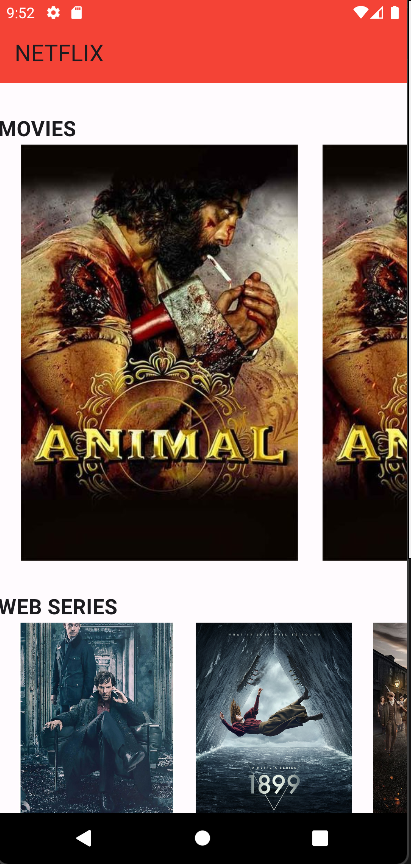
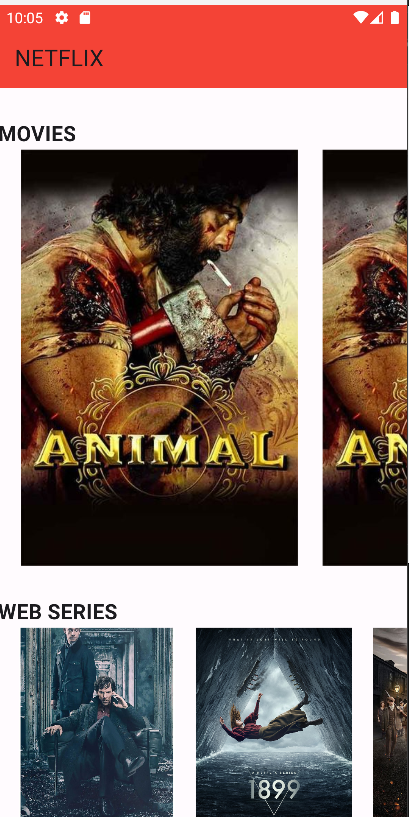
netflix_homepage

diff --git a/netflix_homepage/lib/assignment10.dart b/netflix_homepage/lib/assignment10.dart
@@ -113,32 +113,29 @@ class Assignment10 extends StatelessWidget {
                     width: 20,
                   ),
                   Image.network(
-                    "https://assetscdn1.paytm.com/images/catalog/product/H/HO/HOMSHERLOCK-HOLHK-P63024784A1CC1B/1563111214645_0..jpg",
-                    height: 200,
+                    "https://encrypted-tbn0.gstatic.com/images?q=tbn:ANd9GcR0kR0gMemRl9ylPTzmmuQQVb10vo8n7kXL7BeHkeo_4lmJS56C8-WKIy_GYK12wnEmPlc",
+                    height: 190,
                     width: 150,
-                    fit: BoxFit.cover,
                   ),
                   const SizedBox(
-                    width: 20,
+                    width: 10,
                   ),
                   Image.network(
-                    "https://dnm.nflximg.net/api/v6/2DuQlx0fM4wd1nzqm5BFBi6ILa8/AAAAQeIeKt7LlqIJPKrT4aQijclj7K43xRSU3dQXNESNdNbnnJbT6LLWVRT9srUUbHbOo-iOH-8v3o16pUDMQ6tCgNGlkvfwvDOprROIZpQ2rgHtop9rHvbYlvzavMmUSGBCXjynJ80dn4nqZzZmzIUJMQpS.jpg?r=943",
+                    "https://encrypted-tbn0.gstatic.com/images?q=tbn:ANd9GcRZ5Cq8kozpWIaq5Aohw4rjKkh_eE7nUkDV5zcHClQaYw&s",
                     height: 200,
                     width: 150,
-                    fit: BoxFit.cover,
-                  ),
-                  const SizedBox(
-                    width: 20,
                   ),
                   Image.network(
-                    "https://www.tallengestore.com/cdn/shop/products/PeakyBlinders-NetflixTVShow-ArtPoster_125897c4-6348-41e8-b195-d203700ebcca.jpg?v=1619864555",
-                    height: 200,
+                    "https://dbdzm869oupei.cloudfront.net/img/posters/preview/91008.png",
+                    height: 190,
                     width: 150,
-                    fit: BoxFit.cover,
                   ),
                 ],
               ),
             ),
+            const SizedBox(
+              height: 40,
+            )
           ],
         ),
       ),
